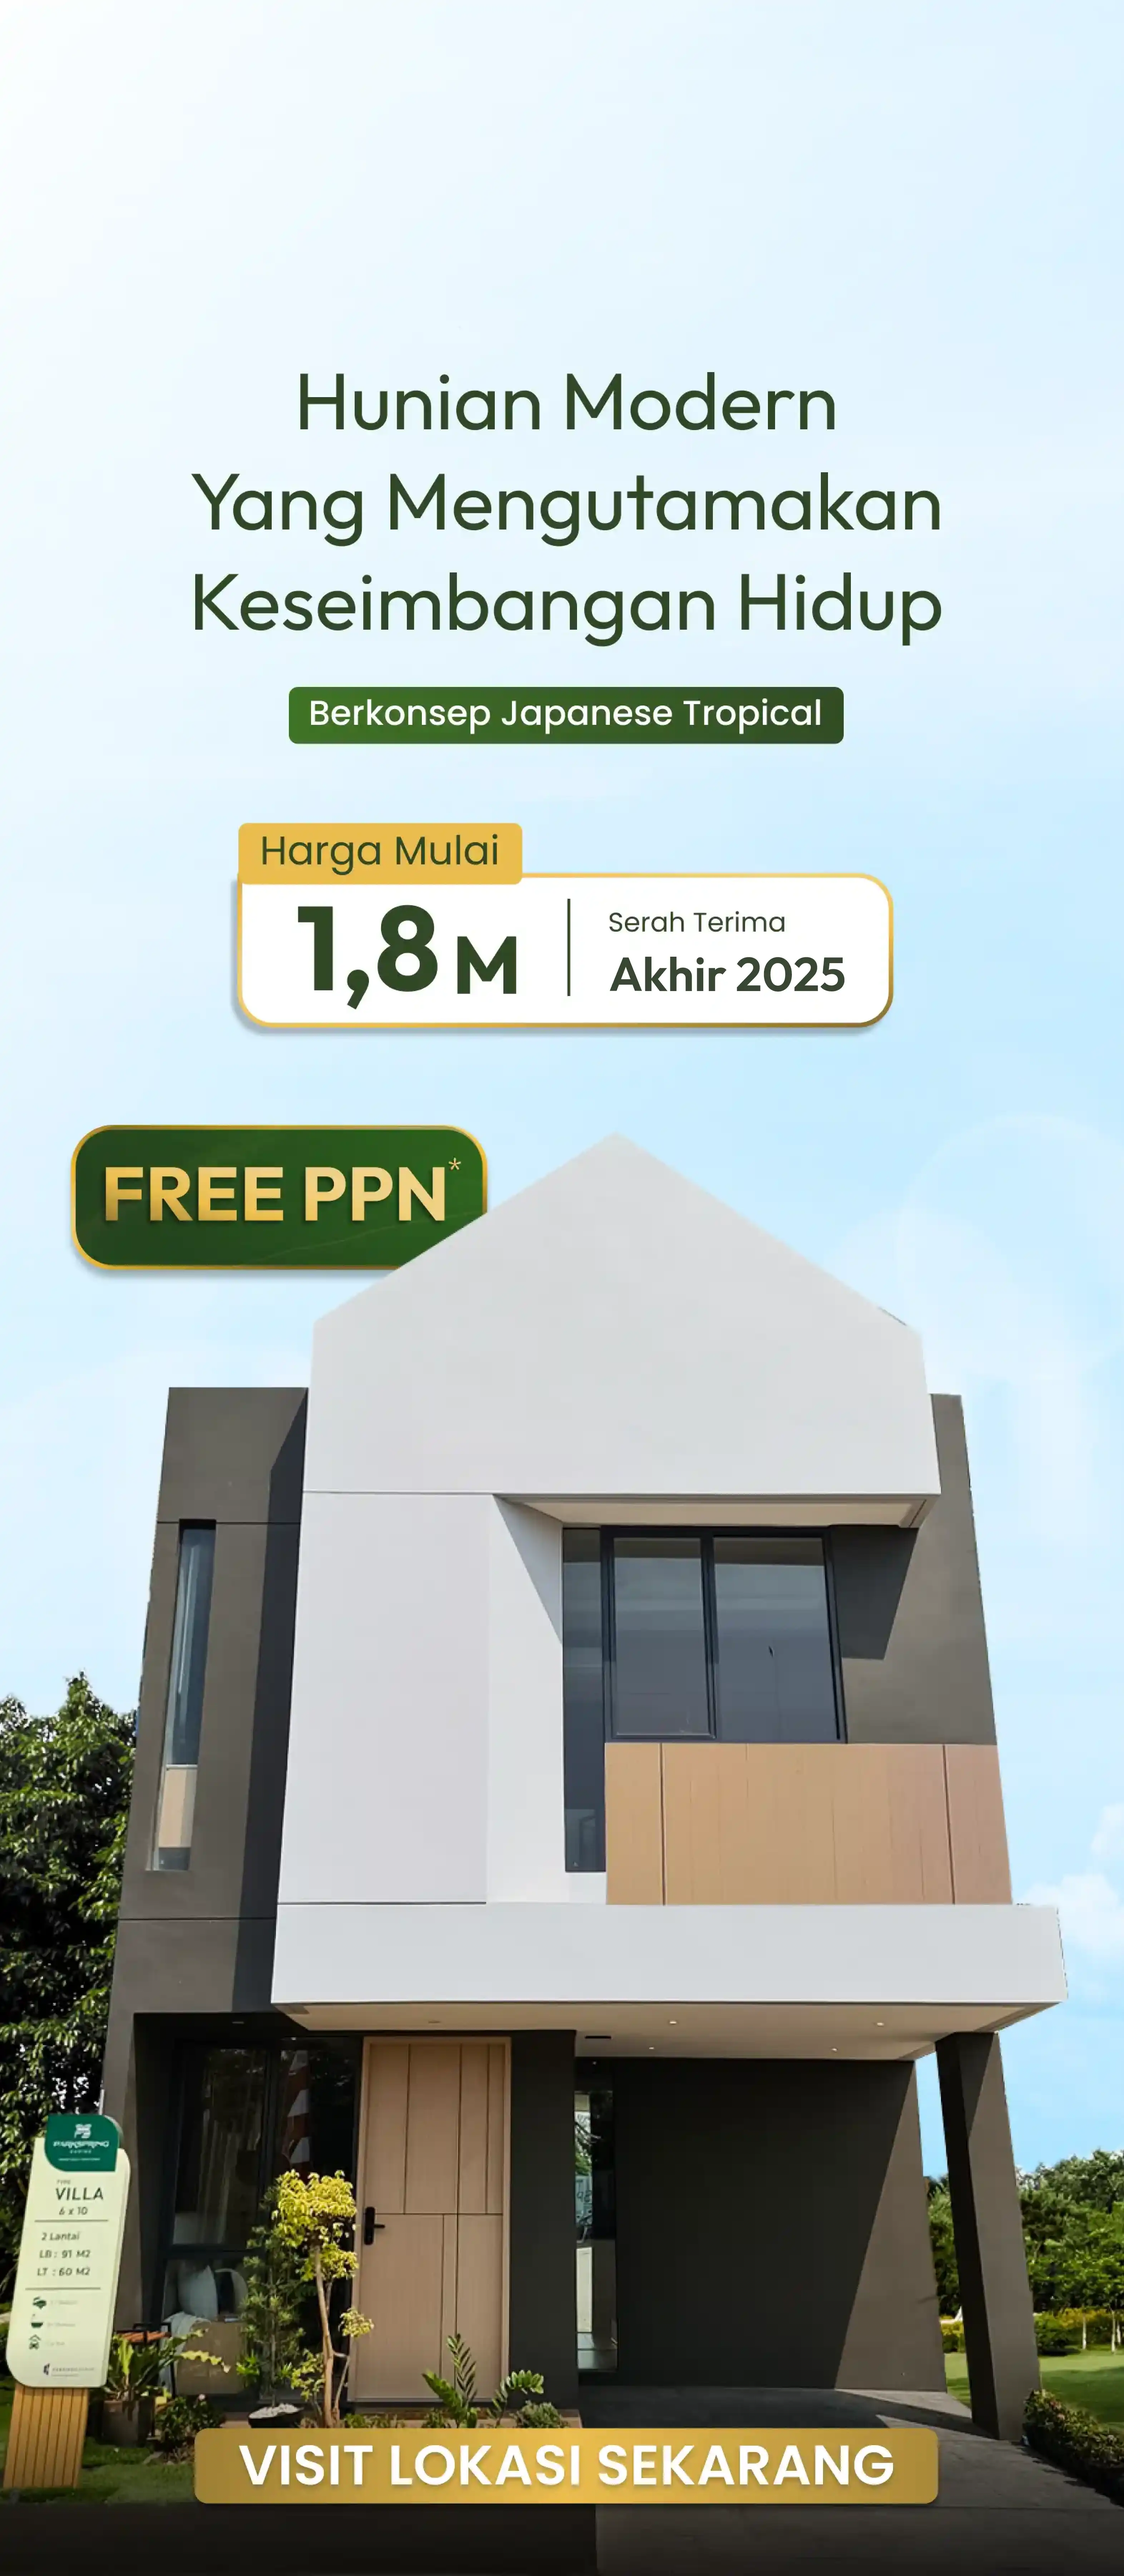
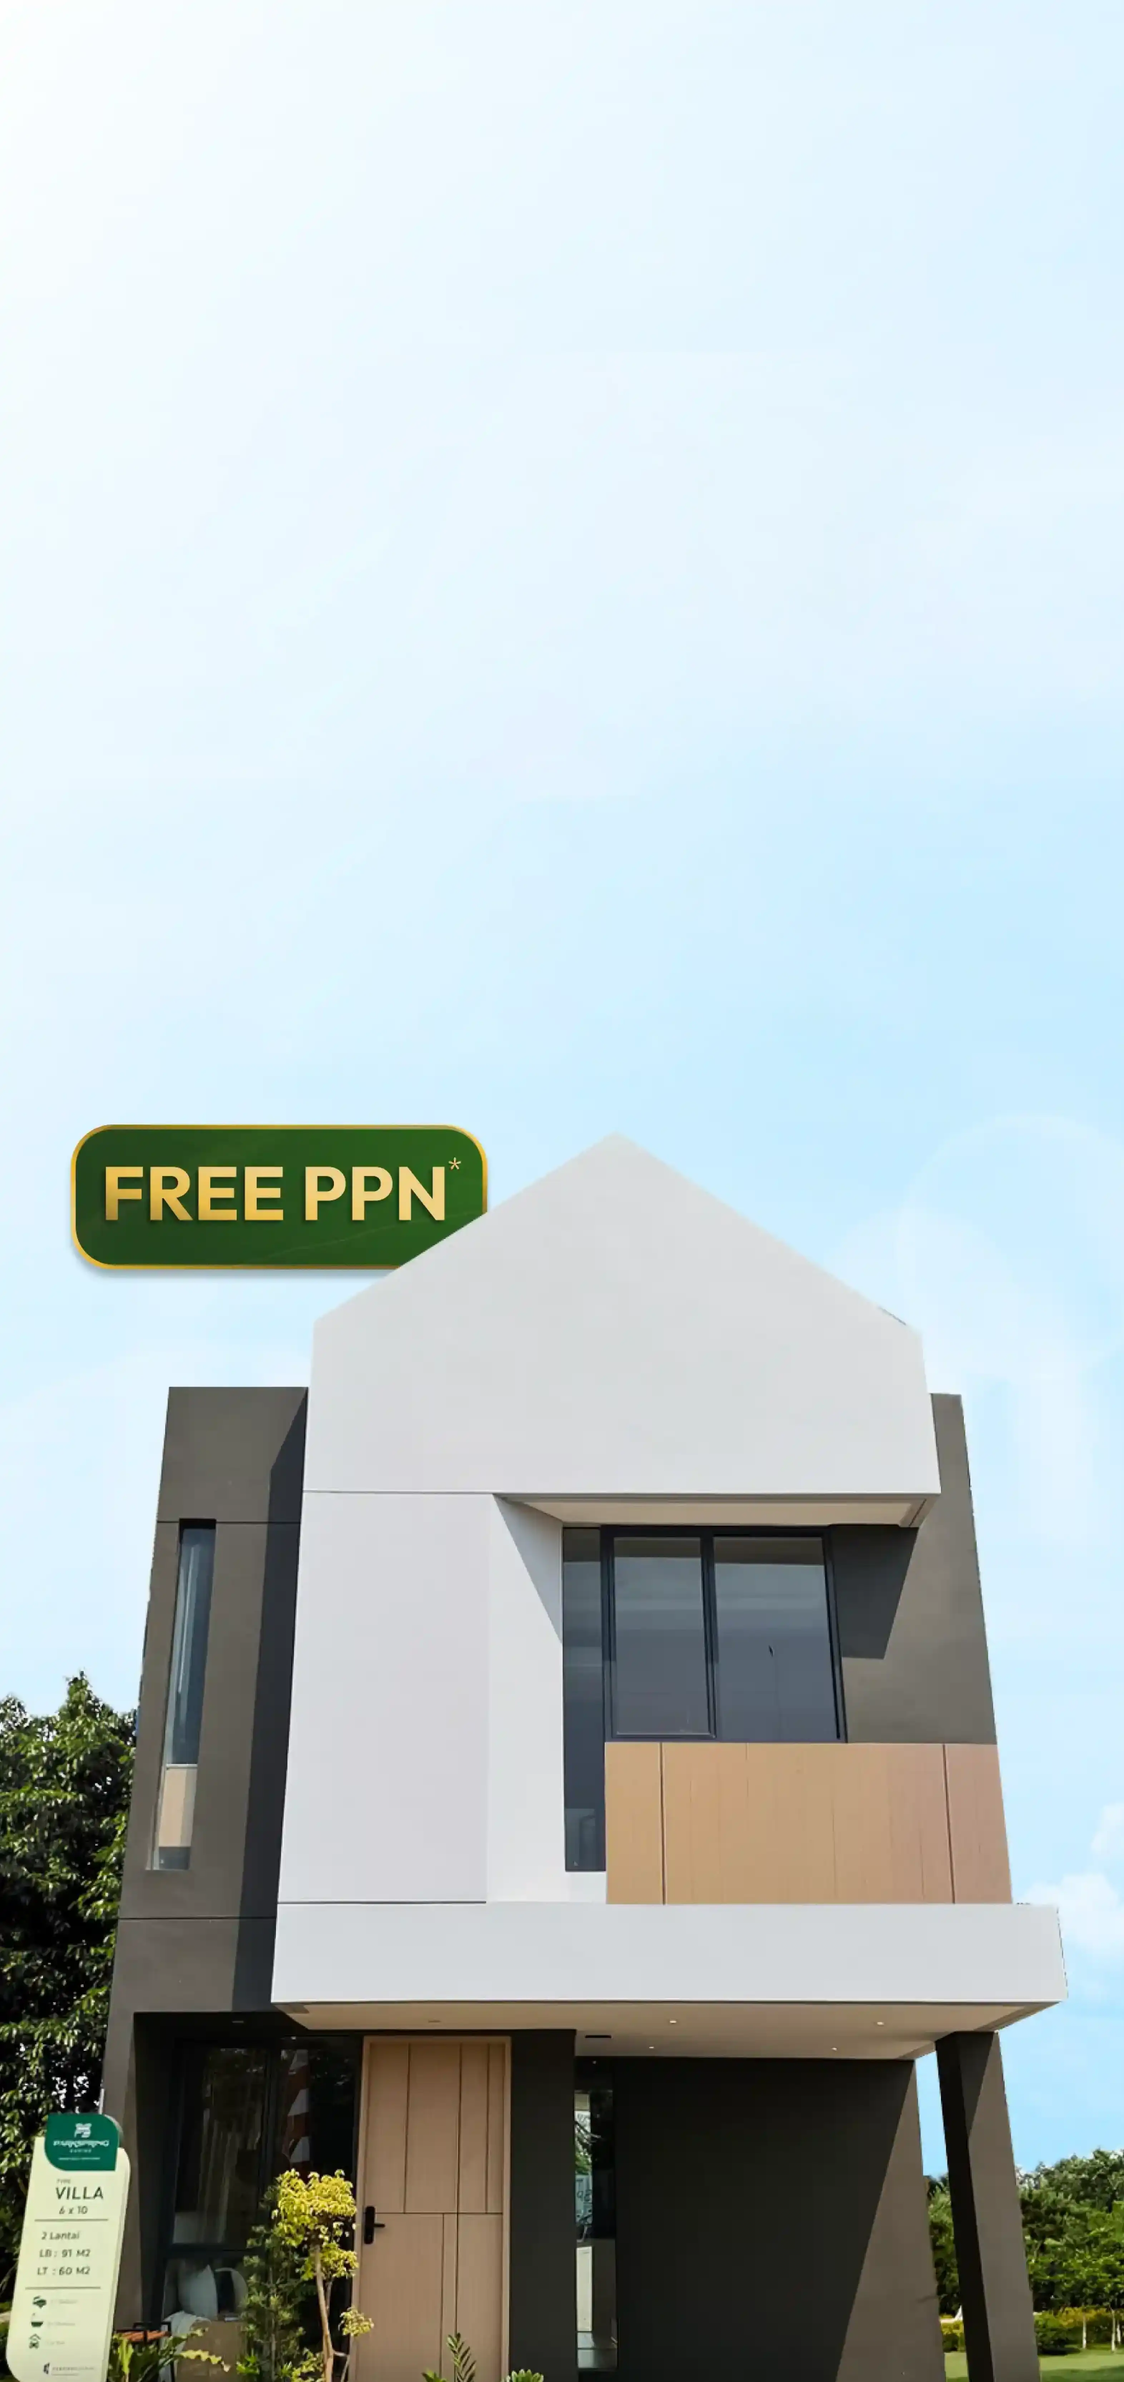
Refactor code structure for improved readability and maintainability

diff --git a/src/app/components/Header.jsx b/src/app/components/Header.jsx
@@ -1,5 +1,5 @@
 "use client";
-import React from "react";
+import React, { useEffect, useState } from "react";
 import Image from "next/image";
 import clsx from "clsx";
 import { useAppContext } from "../utils/stateContext";
@@ -8,8 +8,68 @@ const Header = () => {
   const { isScrolled } = useAppContext();
 
   return (
-    <div className="relative">
-      <Image
+    <div
+      className="relative -mt-72 sm:h-[200vh] h-[180vh] w-full "
+      style={{
+        backgroundImage: "url('/cover-header.webp')",
+        backgroundSize: "cover",
+        backgroundPosition: "center",
+        backgroundRepeat: "no-repeat",
+      }}
+    >
+      <div className="md:pt-[24rem] pt-[21rem] container mx-auto px-8">
+        <div className="flex max-lg:gap-12 max-lg:flex-col max-lg:justify-center max-lg:items-center items-start">
+          <div className="flex flex-col gap-6">
+            <h3 className="xl:text-3xl lg:text-xl md:text-xl text-white py-2 bg-gradient-to-r from-primary to-[#5f813b] rounded-xl inline-block w-fit px-6 max-lg:mx-auto">
+              Berkonsep Japanese Tropical
+            </h3>
+            <h1 className=" text-white lg:text-6xl max-lg:text-center text-5xl md:text-6xl  xl:text-7xl font-semibold md:leading-tight text-shadow-lg ">
+              Hunian Modern Mengutamakan Keseimbangan Hidup
+            </h1>
+            <button
+              onClick={() =>
+                window.open(
+                  "https://api.whatsapp.com/send?phone=%20628988187773&text=Hai,%20saya%20dapat%20info%20dari%20website%20PARKSPRING%20Gading"
+                )
+              }
+              className="flex gap-4 max-lg:mx-auto text-white items-center w-fit text-lg border-gray-50 bg-white/5 border-2 backdrop-blur-xl shadow-sm lg:font-semibold before:absolute before:w-full relative z-10 px-8 py-3 overflow-hidden  rounded-full group max-sm:text-base max-sm:px-4 max-sm:py-2"
+            >
+              Dapatkan Promonya Sekarang
+              <svg
+                className="w-8 h-8 justify-end group-hover:rotate-90 group-hover:bg-gray-50 text-gray-50 ease-linear duration-300 rounded-full border border-gray-50 group-hover:border-none p-2 rotate-45"
+                viewBox="0 0 16 19"
+                xmlns="http://www.w3.org/2000/svg"
+              >
+                <path
+                  d="M7 18C7 18.5523 7.44772 19 8 19C8.55228 19 9 18.5523 9 18H7ZM8.70711 0.292893C8.31658 -0.0976311 7.68342 -0.0976311 7.29289 0.292893L0.928932 6.65685C0.538408 7.04738 0.538408 7.68054 0.928932 8.07107C1.31946 8.46159 1.95262 8.46159 2.34315 8.07107L8 2.41421L13.6569 8.07107C14.0474 8.46159 14.6805 8.46159 15.0711 8.07107C15.4616 7.68054 15.4616 7.04738 15.0711 6.65685L8.70711 0.292893ZM9 18L9 1H7L7 18H9Z"
+                  className="fill-gray-50 group-hover:fill-gray-800/30"
+                ></path>
+              </svg>
+            </button>
+          </div>
+          <div className="flex flex-col items-center justify-center gap-6">
+            <Image
+              src="/price-label.webp"
+              alt="Parkspring Gading Logo"
+              width={800}
+              height={800}
+              className="sm:max-w-[500px] max-w-[350px] h-auto object-contain"
+            />
+            <div className="inline-flex sm:hidden items-center justify-center px-6 py-4 border-[#e2c60f] border-2 bg-gradient-to-r from-[#5f823a] to-[#688b41] rounded-xl">
+              <p className="text-transparent  bg-clip-text bg-gradient-to-r from-secondary to-[#e2c60f] font-bold text-4xl">
+                FREE PPN
+                <sup
+                  className="text-secondary opacity-50 text-sm"
+                  style={{ verticalAlign: "super" }}
+                >
+                  *
+                </sup>
+              </p>
+            </div>
+          </div>
+        </div>
+      </div>
+      {/* <Image
         src="/cover-header.webp"
         alt="rumah-minimalis-murah-1-miliyar-kelapa-gading"
         width={1920}
@@ -17,9 +77,9 @@ const Header = () => {
         className="min-w-screen object-contain lg:-mt-[24rem] md:-mt-[20rem] xl:-mt-[30rem] hidden md:block"
         height={1080}
         priority
-      />
+      /> */}
 
-      <Image
+      {/* <Image
         src="/cover-mobile.webp"
         alt="rumah-minimalis-murah-1-miliyar-kelapa-gading"
         width={1920}
@@ -27,7 +87,8 @@ const Header = () => {
         className="min-w-screen object-contain max-sm:-mt-24 -mt-32 block md:hidden"
         height={1080}
         priority
-      />
+      /> */}
+
       <div
         className={clsx(
           "icon-scroll lg:top-[65%] top-[90%] max-sm:hidden xl:top-[65%]",
